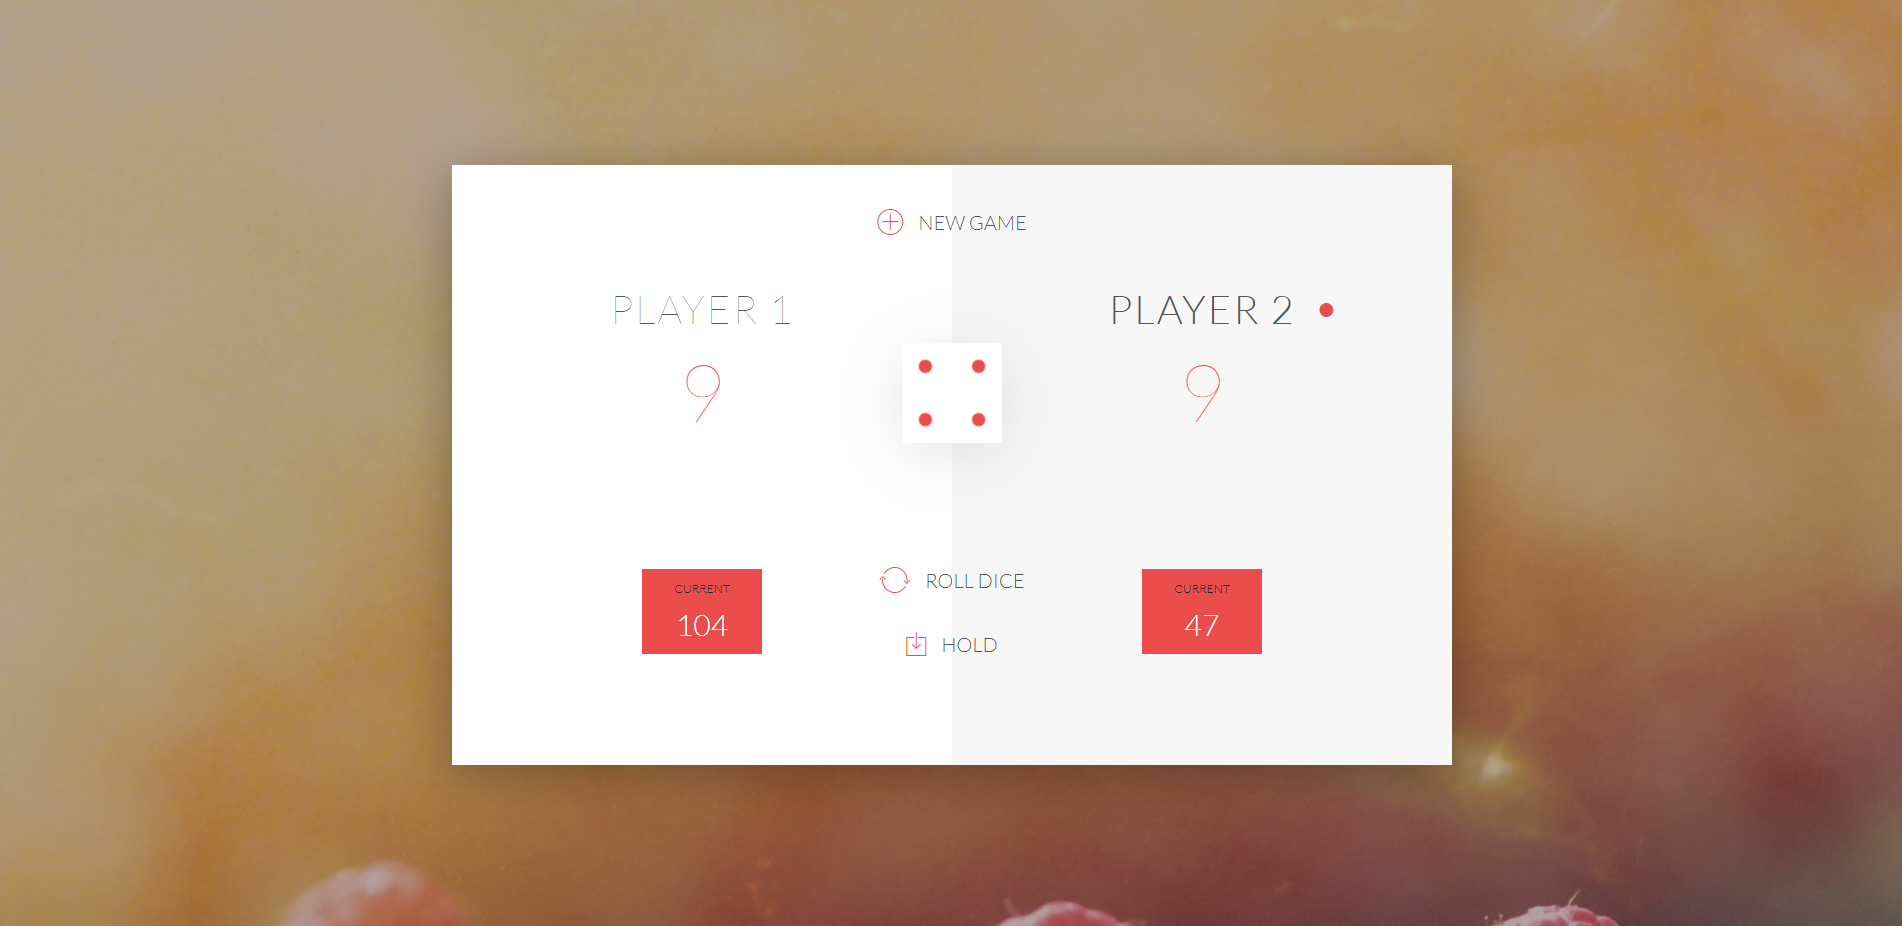
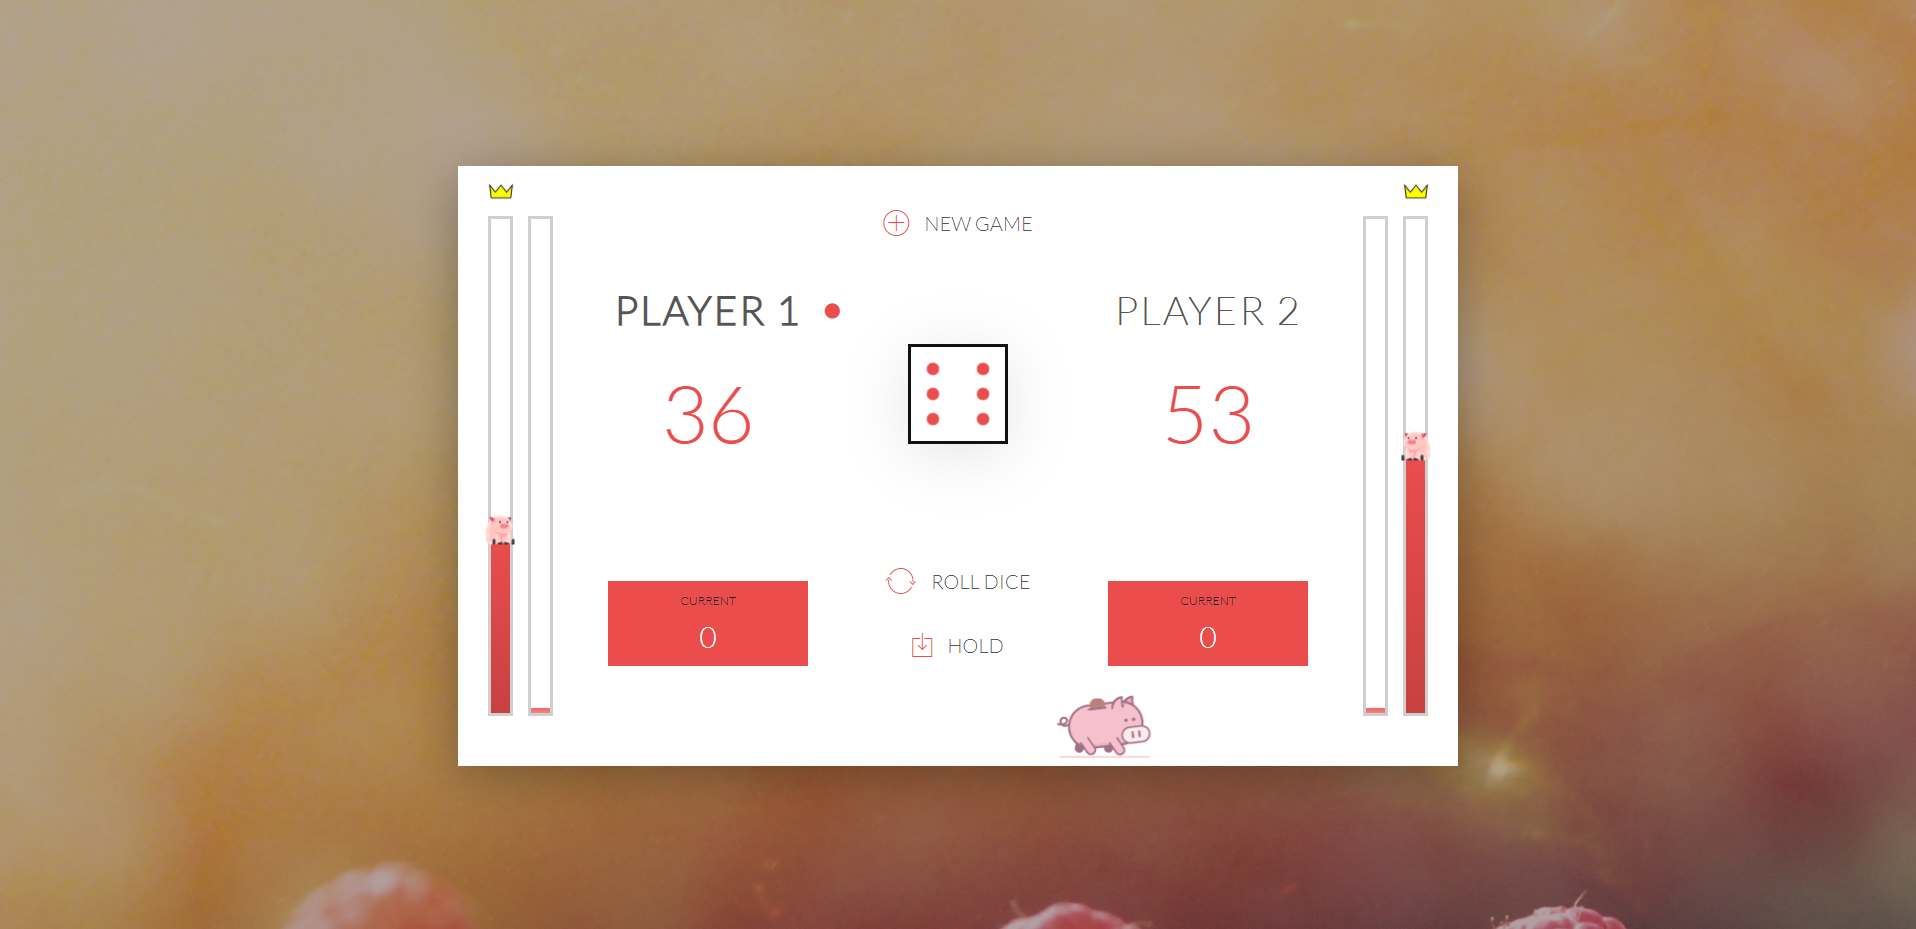
update activity 7

diff --git a/Activities/Activity 7/app.js b/Activities/Activity 7/app.js
@@ -16,48 +16,76 @@ let diceDisplay = document.querySelector('.dice');
 let player1Panel = document.querySelector('.player-0-panel');
 let player2Panel = document.querySelector('.player-1-panel');
 let buttons = document.querySelectorAll('.btn');
+let btnNew = document.querySelector('.btn-new');
 let gameOver = false;
 let turnMsg1 = document.querySelector('.turn-msg1');
 let turnMsg2 = document.querySelector('.turn-msg2');
 let turnFailMsg = `Too bad! You rolled a 1.<br>No points for you this round.`;
 let breakSnd = new Audio('pig_squeal.wav');
+    breakSnd.volume = 0.2;
 let eatSnd = new Audio('eat.mp3');
 let winSnd = new Audio('win.mp3');
 let rollSnd = new Audio('dice.mp3');
-
-let currentValue,
+let rollInt;
+let rollCtr;
+let currentValue, rollTemp = 0;
     activeTurn = 'player-0',
     roundScore1 = 0, roundScore2 = 0,
     playScore1 = 0, playScore2 = 0; 
+let roundBar1 = document.querySelector('.a-round-bar1');
+let roundBar2 = document.querySelector('.a-round-bar2');
+let scoreBar1 = document.querySelector('.a-score-bar1');
+let scoreBar2 = document.querySelector('.a-score-bar2');
+let errorMsg = document.querySelector('.error-msg');
+let walkAnim = document.querySelector('.walk-container');
+
+playSnd(eatSnd);
 
 function rollDice() {
-    currentValue = Math.ceil(Math.random() * 6);
-    diceDisplay.src = `dice-${currentValue}.png`;
-    rollSnd.currentTime = 0;
-    rollSnd.play();
+    errorMsg.innerHTML = '';
+    rollCtr = 10;
+    clearInterval(rollInt);
+    rollInt = setInterval(() => {
+        rollCtr--;
+        rollTemp = Math.ceil(Math.random() * 6);
+        diceDisplay.src = `dice-${rollTemp}.png`;
+        if (rollCtr < 1) {
+            clearInterval(rollInt);
+            currentValue = rollTemp
+            rollCheck();
+        }
+    }, 25);
+    playSnd(rollSnd);
+}
+
+function rollCheck() {
+    console.log(`current is ${currentValue}`);
     if (currentValue === 1) {
+        playSnd(breakSnd);
+        clearInterval(rollInt);
         if (activeTurn === 'player-0') {
             roundScore1 = 0;
             player1RoundScore.innerHTML = `${roundScore1}`;
+            roundBar1.style.height = `${roundScore1}%`;
             turnMsg1.innerHTML = turnFailMsg;
             turnMsg2.innerHTML = '';
-            breakSnd.currentTime = 0;
-            breakSnd.play();
         } else if (activeTurn === 'player-1') {
             roundScore2 = 0;
             player2RoundScore.innerHTML = `${roundScore2}`;
+            roundBar2.style.height = `${roundScore2}%`;
             turnMsg2.innerHTML = turnFailMsg;
             turnMsg1.innerHTML = '';
-            breakSnd.currentTime = 0;
-            breakSnd.play();
         }
         turnHandler();
     } else {
         if (activeTurn === 'player-0') {
             roundScore1 += currentValue;
+            roundBar1.style.height = `${roundScore1}%`;
             player1RoundScore.innerHTML = `${roundScore1}`;
+            
         } else if (activeTurn === 'player-1') {
             roundScore2 += currentValue;
+            roundBar2.style.height = `${roundScore2}%`;
             player2RoundScore.innerHTML = `${roundScore2}`;
         }
     }
@@ -65,27 +93,41 @@ function rollDice() {
 
 function holdValue() {
     if (activeTurn === 'player-0') {
-        playScore1 += roundScore1;
-        player1PlayScore.innerHTML = `${playScore1}`;
-        roundScore1 = 0;
-        player1RoundScore.innerHTML = `${roundScore1}`;
-        eatSnd.currentTime = 0;
-        eatSnd.play();
+        if (roundScore1 > 0) {
+            playScore1 += roundScore1;
+            scoreBar1.style.height = `${playScore1}%`;
+            player1PlayScore.innerHTML = `${playScore1}`;
+            roundScore1 = 0;
+            roundBar1.style.height = `${roundScore1}%`;
+            player1RoundScore.innerHTML = `${roundScore1}`;
+            playSnd(eatSnd);
+            checkWin();
+            turnHandler();
+        } else {
+            errorMsg.innerHTML = 'Roll dice first!';
+        }
     } else if (activeTurn === 'player-1') {
-        playScore2 += roundScore2;
-        player2PlayScore.innerHTML = `${playScore2}`;
-        roundScore2 = 0;
-        player2RoundScore.innerHTML = `${roundScore2}`;
-        eatSnd.currentTime = 0;
-        eatSnd.play();
-    }
-    checkWin();
-    turnHandler();
+        if (roundScore2 > 0) {
+            playScore2 += roundScore2;
+            scoreBar2.style.height = `${playScore2}%`;
+            player2PlayScore.innerHTML = `${playScore2}`;
+            roundScore2 = 0;
+            roundBar2.style.height = `${roundScore2}%`;
+            player2RoundScore.innerHTML = `${roundScore2}`;
+            playSnd(eatSnd);
+            checkWin();
+            turnHandler();
+        } else {
+            errorMsg.innerHTML = 'Roll dice first!';
+        }
+    } 
+    
 }
 
 function turnHandler() {
     if (!gameOver) {
         (activeTurn === 'player-1') ? activeTurn = 'player-0' : activeTurn = 'player-1';
+        (activeTurn === 'player-1') ? turnMsg2.innerHTML = '' : turnMsg1.innerHTML = '';
         player1Panel.classList.toggle('active');
         player2Panel.classList.toggle('active');
     }
@@ -98,19 +140,27 @@ function checkWin() {
             btn.classList.add('disabled');
         })
         player1Panel.classList.add('winner');
+        player1Panel.classList.remove('active');
         gameOver = true;
-        winSnd.currentTime = 0;
-        winSnd.play();
+        playSnd(winSnd);
+        btnNew.classList.add('emp');
+        walkAnim.style.display = 'none';
     } else if (playScore2 >= 100) {
         console.log(`Player 2 Wins`);
         buttons.forEach(btn => {
             btn.classList.add('disabled');
         })
         player2Panel.classList.add('winner');
+        player2Panel.classList.remove('active');
         gameOver = true;
-        winSnd.currentTime = 0;
-        winSnd.play();
+        playSnd(winSnd);
+        btnNew.classList.add('emp');
+        walkAnim.style.display = 'none';
     }
 }
 
-// win display
+function playSnd(sound) {
+    sound.currentTime = 0;
+    sound.play();
+}
+

diff --git a/Activities/Activity 7/style.css b/Activities/Activity 7/style.css
@@ -32,7 +32,7 @@ body {
     top: 50%;
     left: 50%;
     transform: translate(-50%, -50%);
-    background-color: #fff;
+    background-color: #ffffff;
     box-shadow: 0px 10px 50px rgba(0, 0, 0, 0.3);
     overflow: hidden;
 }
@@ -76,7 +76,6 @@ body {
     margin-top: 35px;
 }
 
-.active { background-color: #f7f7f7; }
 .active .player-name { font-weight: 600; }
 
 .active .player-name::after {
@@ -114,7 +113,7 @@ body {
 
 button {
     position: absolute;
-    width: 200px;
+    width: 250px;
     left: 50%;
     transform: translateX(-50%);
     color: #555;
@@ -158,12 +157,136 @@ i {
     height: 100px;
     box-shadow: 0px 10px 60px rgba(0, 0, 0, 0.10);
     border: 3px solid #111;
+    transition: 0.2s;
 }
 
-.winner { background-color: #f7f7f7; }
-.winner .player-name { font-weight: 300; color: #EB4D4D; }
+.winner {
+    background-image: url(win.gif);
+    background-blend-mode:hard-light;
+}
+.winner .player-name { font-weight: 600; color: #EB4D4D; }
+.winner .player-score { font-size: 120px;}
 
 .disabled {
     opacity: 0.3;
     pointer-events: none;
+}
+
+.emp {
+    font-size: 30px;
+}
+
+.emp i {
+    margin-top: 4px;
+}
+
+.score-bar1, .score-bar2, 
+.a-score-bar1, .a-score-bar2,
+.round-bar1, .round-bar2,
+.a-round-bar1, .a-round-bar2 {
+    position: absolute;
+    height: 500px;
+}
+
+.score-bar1, .score-bar2,
+.round-bar1, .round-bar2 {
+    border: 3px solid rgba(85, 85, 85, 0.281);
+    bottom: 50px;
+    width: 25px;
+}
+
+.a-round-bar1, .a-round-bar2,
+.a-score-bar1, .a-score-bar2 {
+    bottom: 0px;
+    width: 19px;
+    max-height: 494px;
+    min-height: 5px;
+    height: 0px;
+    transition: 0.3s;
+}
+
+.a-score-bar1, .a-score-bar2 {
+    background-image: linear-gradient(to bottom, #EB4D4D, #c74141) ;
+}
+
+.a-round-bar1, .a-round-bar2 {
+    background-image: linear-gradient(to bottom, #eb4d4dd8, #eb4d4db2) ;
+}
+
+.score-bar1 {
+    left: 30px;
+}
+
+.round-bar1 {
+    left: 70px;
+}
+
+.score-bar2 {
+    right: 30px;
+}
+
+.round-bar2 {
+    right: 70px;
+}
+
+.nose {
+    position: absolute;
+    width: 30px;
+    height: auto;
+    left: 50%;
+    transform: translateX(-50%);
+    top: -20px;
+}
+
+.nose-1 {
+    transform: scaleX(-1);
+    left: -6px;
+}
+
+.crown {
+    position: absolute;
+    width: 25px;
+    height: auto;
+    right: 50%;
+    transform: translateX(50%);
+    top: -40px;
+}
+
+.error-msg {
+    position: absolute;
+    width: 200px;
+    height: 50px;
+    left: 50%;
+    text-align: center;
+    transform: translateX(-50%);
+    bottom: 20px;
+    font-size: 20px;
+    color:#EB4D4D;
+}
+
+.walk-container {
+    position: absolute;
+    width: 800px;
+    height: 85px;
+    left: 50%;
+    bottom: 0px;
+    transform: translateX(-50%);
+    overflow: hidden;
+    opacity: 0.7;
+
+}
+.walk {
+    width: 110px;
+    height: auto;
+    left: 0px;
+    animation: walking 20s infinite linear;
+}
+
+@keyframes walking {
+    0% {
+        transform: translateX(-150px);
+    }
+    100% {
+        transform: translateX(800px);
+    }
 }

diff --git a/Activities/Activity 7/index.html b/Activities/Activity 7/index.html
@@ -5,7 +5,7 @@
         <link href="https://fonts.googleapis.com/css?family=Lato:100,300,600" rel="stylesheet" type="text/css">
         <link href="http://code.ionicframework.com/ionicons/2.0.1/css/ionicons.min.css" rel="stylesheet" type="text/css">
         <link type="text/css" rel="stylesheet" href="style.css">
-        
+        <link rel='shortcut icon' href='dice-5.ico' type='image/x-icon'>
         <title>Pig Game</title>
     </head>
 
@@ -19,6 +19,15 @@
                     <div class="player-current-label">Current</div>
                     <div class="player-current-score" id="current-0">0</div>
                 </div>
+                <div class="score-bar1">
+                    <div class="a-score-bar1">
+                        <img src="nose.png" alt="nose" class="nose nose-1">
+                    </div>
+                    <img src="crown.png" alt="crown" class="crown">
+                </div>
+                <div class="round-bar1">
+                    <div class="a-round-bar1"></div>
+                </div>
             </div>
             
             <div class="player-1-panel">
@@ -29,6 +38,15 @@
                     <div class="player-current-label">Current</div>
                     <div class="player-current-score" id="current-1">0</div>
                 </div>
+                <div class="score-bar2">
+                    <div class="a-score-bar2">
+                        <img src="nose.png" alt="nose" class="nose nose-2">
+                    </div>
+                    <img src="crown.png" alt="crown" class="crown">
+                </div>
+                <div class="round-bar2">
+                    <div class="a-round-bar2"></div>
+                </div>
             </div>
             
             <button class="btn-new" onclick="location.reload()"><i class="ion-ios-plus-outline"></i>New game</button>
@@ -36,6 +54,11 @@
             <button class="btn btn-hold" onclick="holdValue()"><i class="ion-ios-download-outline"></i>Hold</button>
             
             <img src="dice-5.png" alt="Dice" class="dice">
+            <div class="error-msg"></div>
+            <div class="walk-container">
+                <img src="walk.gif" alt="walking" class="walk">
+            </div>
+            
         </div>
         
         <script src="app.js"></script>
